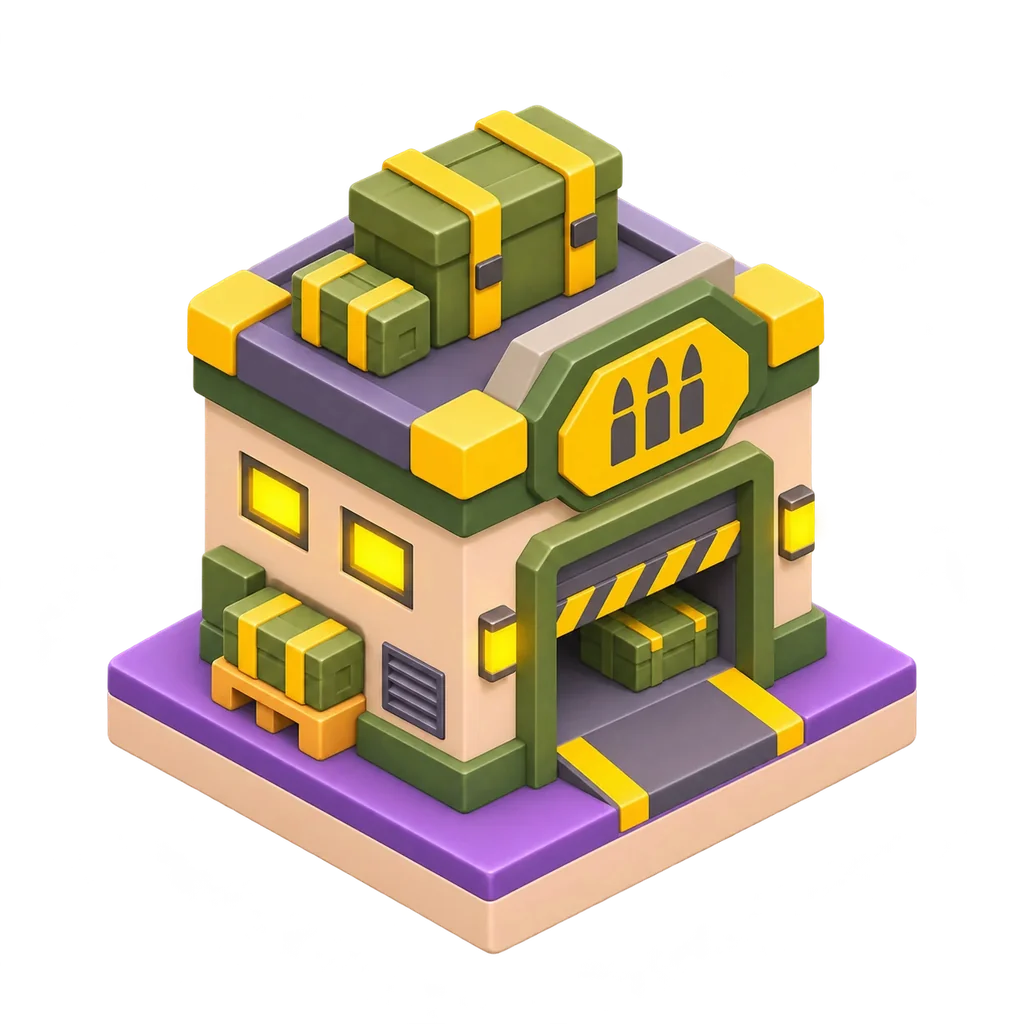
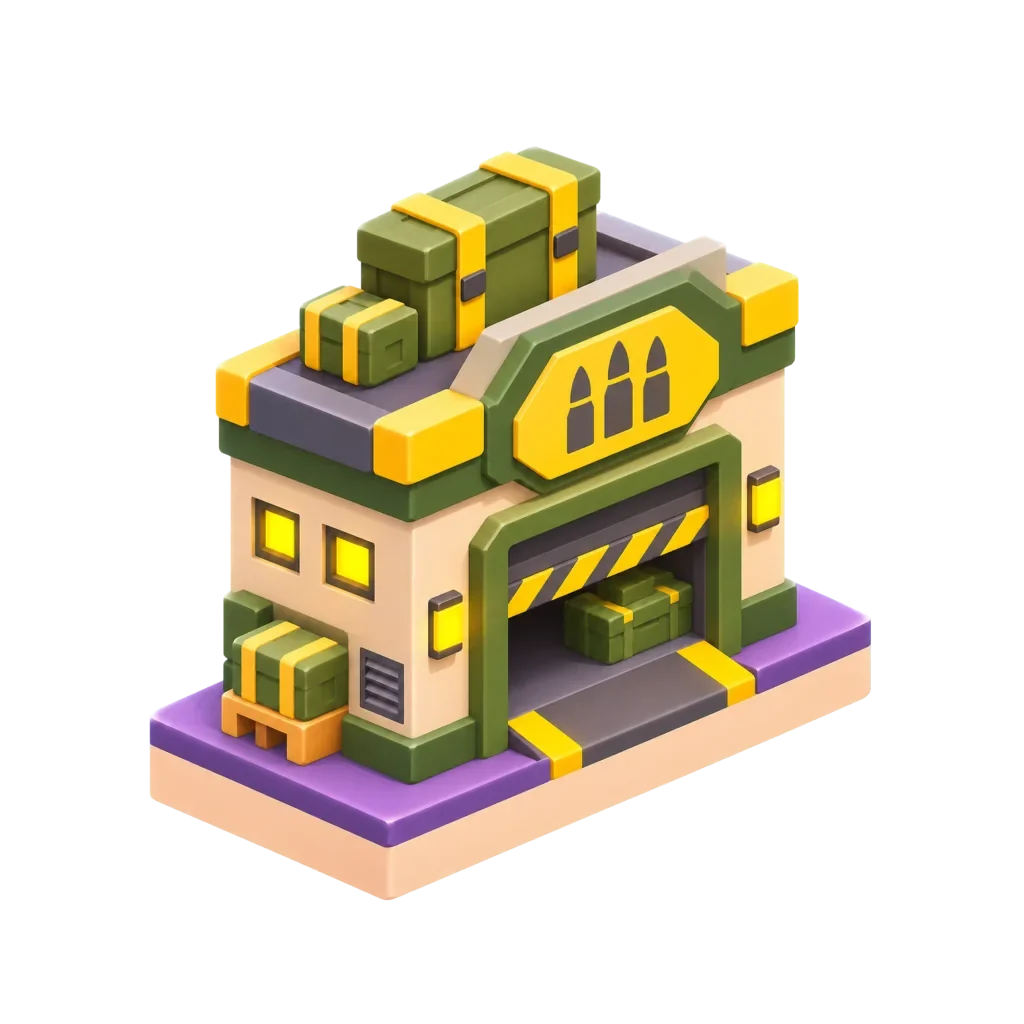
New Art
Replaces three building paintings with the new versions, measured from the new images so they sit on the plaza. Build 2026111070.

diff --git a/index.html b/index.html
@@ -947,7 +947,7 @@ let VB=setTop(-118);
 // Painted building art: businesses listed here show an image (1024x1024, transparent, island base ~90% down) instead of the drawn building.
 // Painted building art: one 1024x1024 transparent WebP per business, in img/<code>.webp, used on the city and in every picture of it.
 // The numbers are the box the building actually fills inside the image (left, top, right, bottom), so each one is sized and placed the same way.
-const BIMG={abd:[107,105,917,954],lem:[162,102,855,944],clf:[111,79,911,919],ffr:[108,101,910,916],mdc:[112,132,911,922],plp:[121,60,906,938]};
+const BIMG={abd:[149,146,871,900],lem:[234,200,775,830],clf:[149,128,874,905],ffr:[108,101,910,916],mdc:[112,132,911,922],plp:[121,60,906,938]};
 const bimgUrl=c=>`img/${c}.webp`;
 const BIMG_W=258; // the widest a painted building shows, in stage units (the drawn buildings are about 214 wide)
 const BIMG_H=BIMG_W*797/802; // and the tallest (so tall, narrow buildings aren't blown up past the others)
@@ -1016,7 +1016,7 @@ MIS.forEach(([g,steps],gi)=>steps.forEach(([d,f,r],i)=>ACH.push(['m'+gi+'_'+i,g+
 /* ================= state ================= */
 // Save format: never rename SAVE_KEY. Businesses are stored by their code, not their list position,
 // so adding, removing or reordering businesses in an update keeps everyone's progress.
-/*build*/const BUILD=2026111069,MUST=2026110820;/*notes*/const NOTES=["Improvements and fixes."];
+/*build*/const BUILD=2026111070,MUST=2026110820;/*notes*/const NOTES=["Improvements and fixes."];
 let pmWant=false,pmLater=null,clockAnchor=null;let clockOff=0,clockChecked=false,clockWait=true;const OFF_CAP=2*36e5,CLOCK_GUARD=!!String((window.TRILLIONAIRE_CONFIG||{}).supabaseUrl||'').trim();
 const SAVE_KEY='trillionaire.save',OLD_KEYS=['mogul.tycoon.v3'],SAVE_VER=4,now=()=>{let d=CLOCK_GUARD&&clockChecked&&clockAnchor?clockAnchor.srv+(performance.now()-clockAnchor.perf):Date.now()+clockOff;if(s){
  if(CLOCK_GUARD){if(!(s.verT>0))s.verT=Math.min(d,Math.max(s.last||0,s.savedAt||0)||d);if(clockChecked){if(d>s.verT)s.verT=d}else if(!s.pm){const lim=s.verT+(clockWait?0:OFF_CAP);if(d>lim){d=lim;if(!clockWait)pmWant=true}}}
